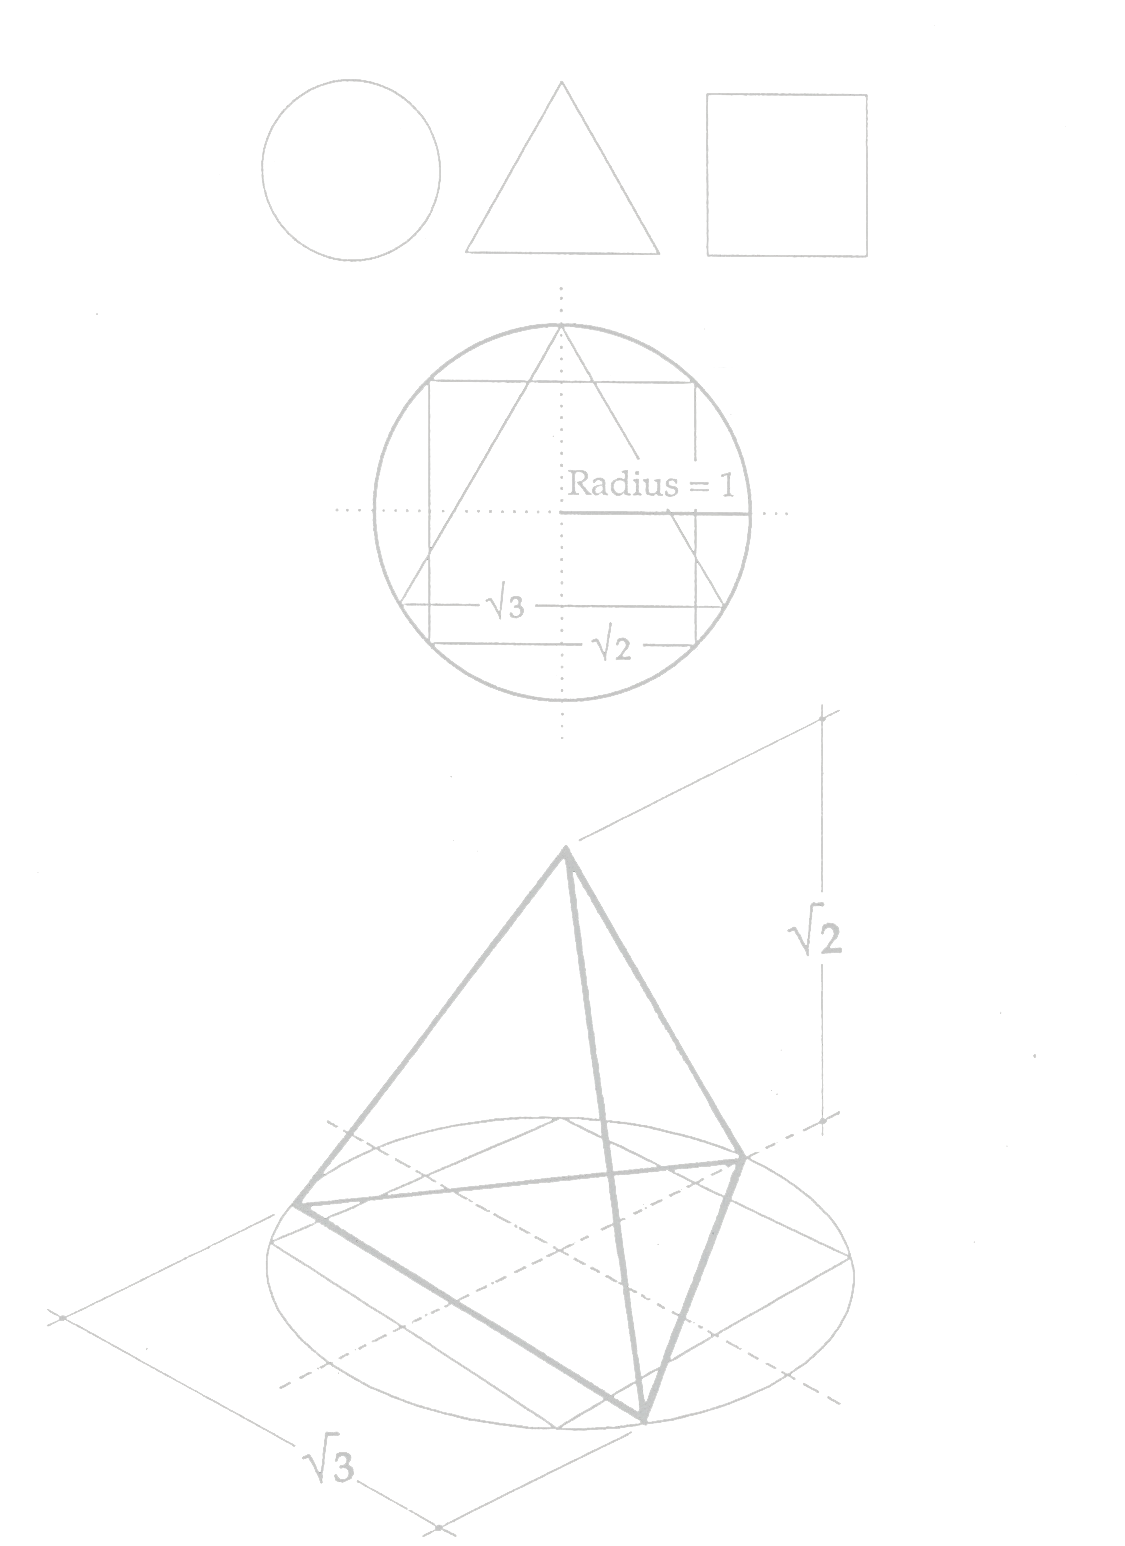
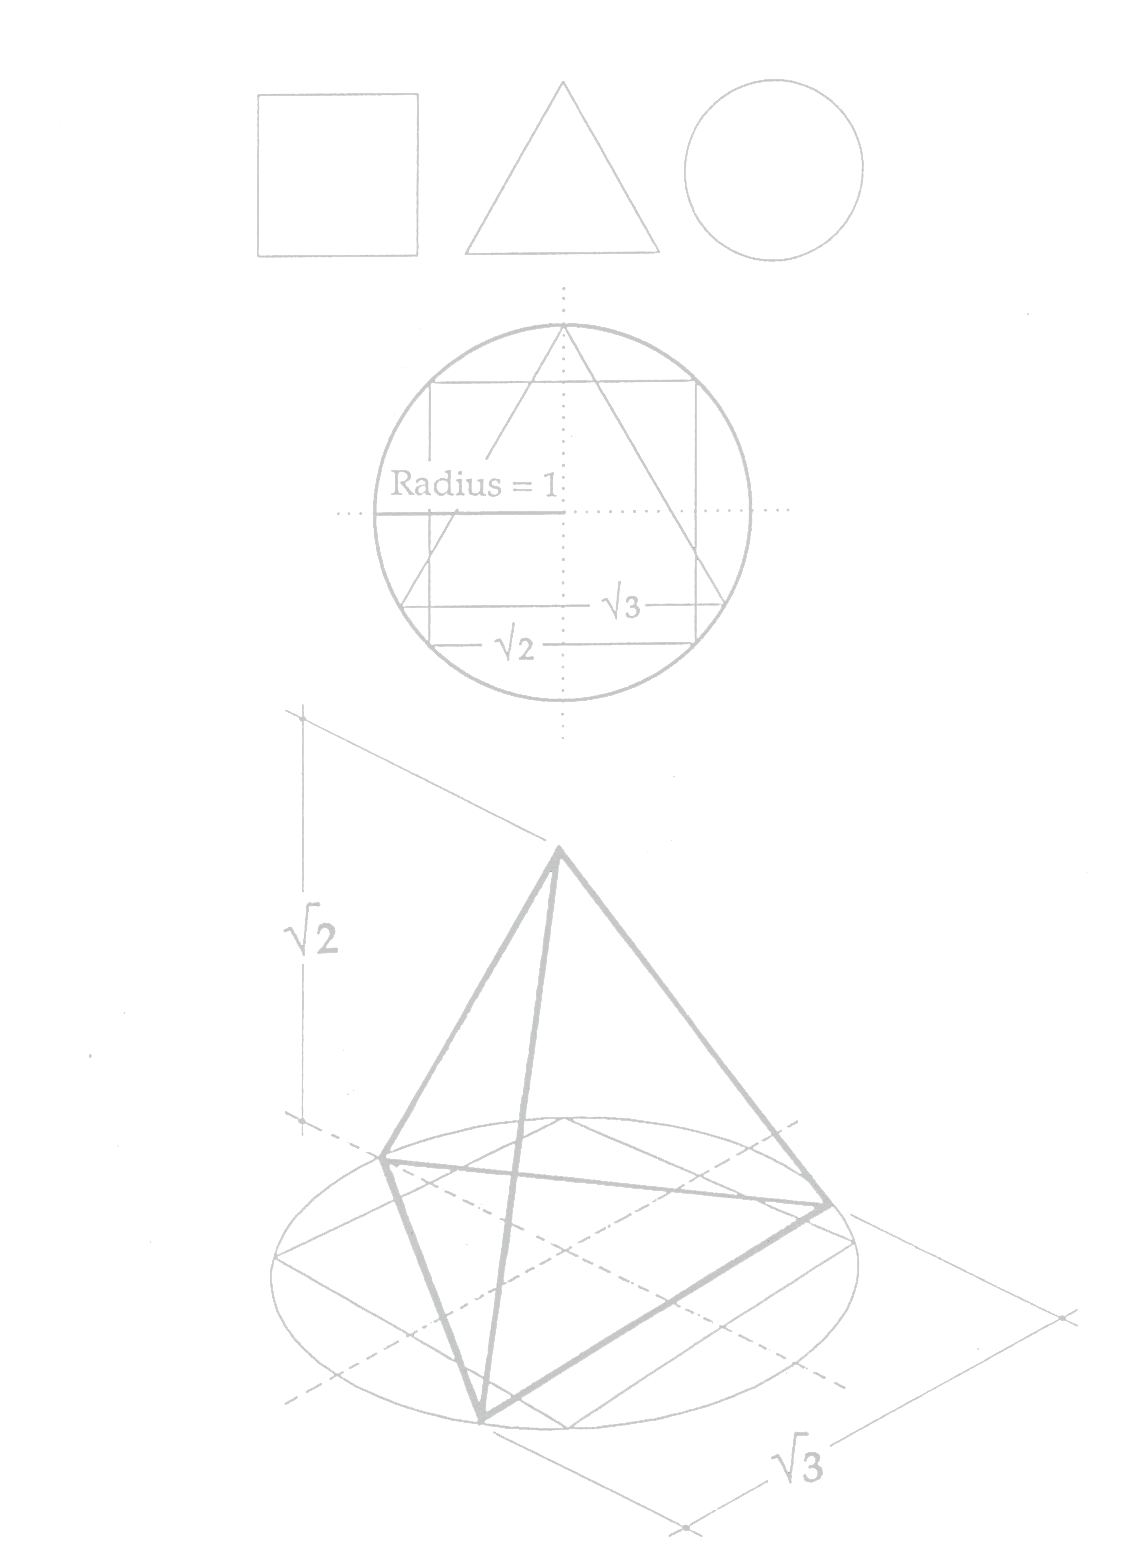
P2-S1: flip picture 2 so the square is on the left
The drawing is mirrored left-right with its labels (Radius = 1, the root-2
and root-3 marks) kept readable in their mirrored places. The page shows
the mirror of the same crop. The unflipped original is in originals/.

Claude-Session: https://claude.ai/code/session_019cyhJjxB89w9RV3jAwbeA1

diff --git a/part-2-the-geometry.html b/part-2-the-geometry.html
@@ -88,7 +88,7 @@
 </div></div>
 <figure class="el el-I" data-eid="I:images/P2/P2-01_the-symbols-of-the-1st-temple.jpg" data-y="66" data-h="255" style="left:18px;top:66px;width:440px;height:255px;z-index:2;--ar:440/255" data-file="images/P2/P2-01_the-symbols-of-the-1st-temple.jpg"><img src="images/P2/P2-01_the-symbols-of-the-1st-temple.jpg" alt="the symbols of the 1st temple" loading="lazy" decoding="async" style="left:-2.978%;top:-40.467%;width:181.505%;height:176.065%"></figure>
 <div class="el el-T" data-eid="T:JapansFirstZenTemple" data-y="320" data-h="27" style="left:19px;top:320px;width:440px;z-index:5;--ar:440/27" data-text><div class="txt"><h3 class="ph ph-wix" style="font-size:20px">Japan&#x27;s First Zen Temple</h3></div></div>
-<figure class="el el-I" data-eid="I:images/P2/P2-02_circle-square-triangle-to-rt.png" data-y="385" data-h="705" style="left:-1px;top:385px;width:460px;height:705px;z-index:3;--ar:460/705" data-file="images/P2/P2-02_circle-square-triangle-to-rt.png"><img src="images/P2/P2-02_circle-square-triangle-to-rt.png" alt="circle square triangle to rt" loading="lazy" decoding="async" style="left:0.000%;top:-4.003%;width:116.099%;height:104.101%"></figure>
+<figure class="el el-I" data-eid="I:images/P2/P2-02_circle-square-triangle-to-rt.png" data-y="385" data-h="705" style="left:-1px;top:385px;width:460px;height:705px;z-index:3;--ar:460/705" data-file="images/P2/P2-02_circle-square-triangle-to-rt.png"><img src="images/P2/P2-02_circle-square-triangle-to-rt.png" alt="circle square triangle to rt" loading="lazy" decoding="async" style="left:-16.099%;top:-4.003%;width:116.099%;height:104.101%"></figure>
 </div></div>
 </main>
 <nav class="pager"><a class="prev" href="2d-exploratory-inception-sketches.html"><small>Previous</small>2D Exploratory &amp; Inception Sketches</a><a class="next" href="tetrahedron-fascination.html"><small>Next</small>Tetrahedron Fascination</a></nav>

diff --git a/src/canvas.py b/src/canvas.py
@@ -96,6 +96,10 @@ PDF_ICON = ('<svg viewBox="0 0 40 52" aria-hidden="true"><path d="M2 2h26l10 10v
             '<text x="20" y="38" text-anchor="middle" font-family="Arial,sans-serif" font-size="11" font-weight="700" fill="#a3322a">PDF</text></svg>')
 
 
+# pictures whose files have been flipped left-right since the Wix layout was made
+MIRRORED = set()
+
+
 def clean_html(h):
     """Text saved from the Edit tool: keep the markup and inline styles, drop anything that could run."""
     h = re.sub(r'(?is)<(script|style|iframe|object|embed)\b.*?</\1\s*>', '', h)
@@ -167,6 +171,8 @@ def render(key, page, img_info, link, docs, hooks=None, edits=None):
                 continue
             path, Ow, Oh = img_info[c]
             L, T, Wp, Hp = placement(it['src'], w, h, Ow, Oh)
+            if path in MIRRORED:   # the picture file was flipped left-right: show the mirror of the same crop
+                L = 100 - L - Wp
             if ed and ed.get('fit') == 'cover':   # re-proportioned in the Edit tool: the whole picture, cropped to fill
                 k = max(w / Ow, h / Oh)
                 Wp, Hp = Ow * k / w * 100, Oh * k / h * 100

diff --git a/src/build.py b/src/build.py
@@ -260,6 +260,8 @@ LAYOUT = json.load(open('layout.json'))
 # positions and sizes saved with the in-page Edit tool (page key -> element id -> x, y, w, h[, fit])
 EDITS = json.load(open('edits.json')) if os.path.exists('edits.json') else {}
 EDITS = EDITS.get('pages', EDITS)
+# P2 picture 2 flipped left-right (Nov 2026) so the square is on the left; its labels were kept readable
+CV.MIRRORED.add('images/P2/P2-02_circle-square-triangle-to-rt.png')
 # Picture moves between pages: (from page, file name part) -> to page. The picture keeps its size and crop;
 # on its new page it is centred under the title, below anything already there.
 # A text block is matched by the words it starts with; 'top' puts it first on the new page (above what is there).
